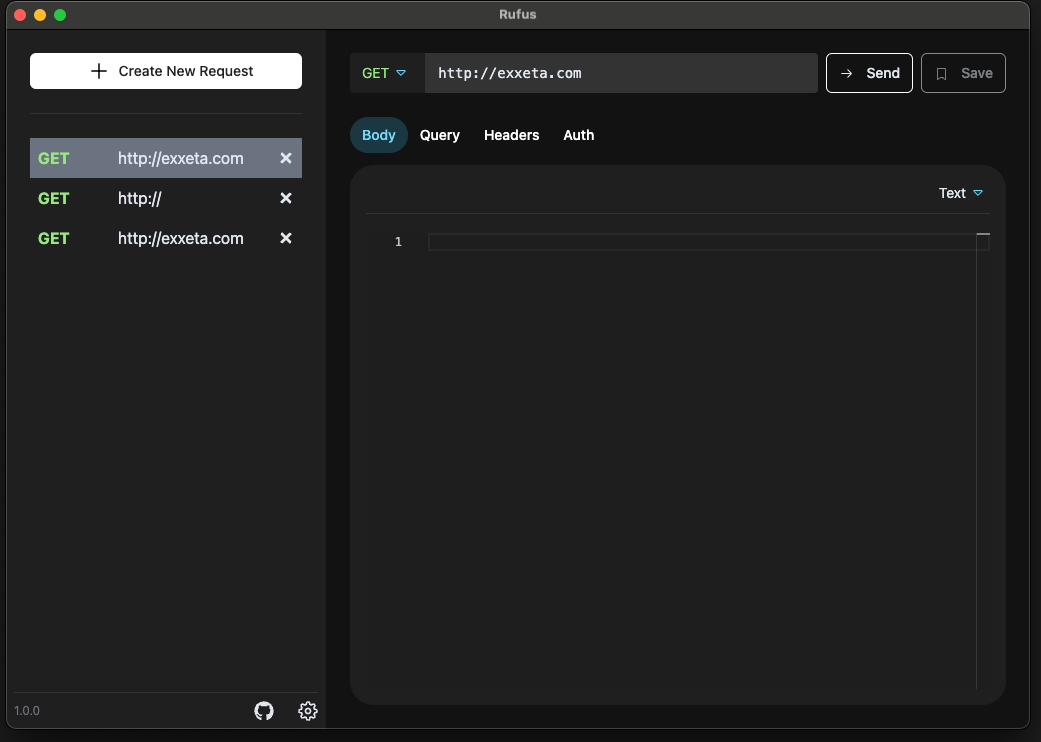
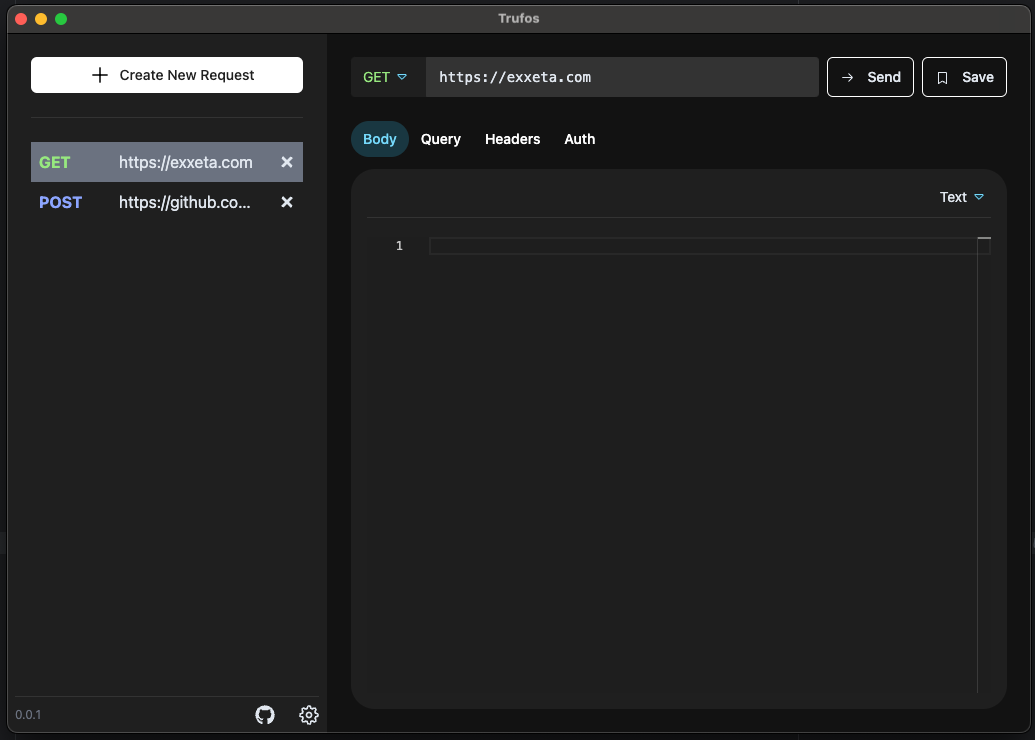
#112 - change ideas from PR

diff --git a/README.md b/README.md
@@ -19,11 +19,7 @@ As many REST clients exist in the ecosystem, Trufos aims to provide an out-of-th
 - Support for various authentication methods, including JWT, OAuth, and basic authentication
 - Extendable plugin architecture for additional features and integrations
 
-**Current Development Status**: Trufos is still at an early stage of development. Be aware of this when using Trufos under production conditions. If you would like to contribute to this project, please check out our (./CONTRIBUTING.md).
-
-## Download
-
-[Prebuild releases for Linux, OSX and Windows can be found here.](https://github.com/EXXETA/rufus/releases/latest)
+**Current Development Status**: Trufos is still at an early stage of development. Be aware of this when using Trufos under production conditions. If you would like to contribute to this project, please check out our [Contributing Guidelines](./CONTRIBUTING.md).
 
 ## Screenshot
 
@@ -31,10 +27,6 @@ As many REST clients exist in the ecosystem, Trufos aims to provide an out-of-th
 ## Requirements
 
 As Trufos is an Electron application, it can run on Windows, macOS, and Linux without any issues. If you want to develop or build this software yourself, you will need Node.js version 22 or higher and NPM version 10 or higher.
-
-## Installation
-
-You can either download one of the provided binaries or build the software yourself by cloning the repository and running `npm run make`, after which the binary can be found inside the `out/make/` directory.
 
 ## Usage
 
@@ -55,13 +47,14 @@ Here’s a simple example of how to add and utilize an endpoint:
 
 * Where can I find the saved Requests?
 * The saved requests are in this folder:
-  * Mac: ``~/Library/Application\ Support/Rufus/default-collection`` 
-  * Windows: ``C:\Users\USERNAME\AppData\Roaming\Rufus\default-collection``
+  * Mac: ``~/Library/Application\ Support/Trufos/default-collection`` 
+  * Windows: ``C:\Users\USERNAME\AppData\Roaming\Trufos\default-collection``
 
 
 ## Contributing
 
-If you would like to contribute to this project, please check out our [Contributing Guidelines](./CONTRIBUTING.md) and [Code of Conduct](./CODE_OF_CONDUCT.md) before you begin.
+If you would like to contribute to this project, please check out our
+[Contributing Guidelines](./CONTRIBUTING.md) and [Code of Conduct](./CODE_OF_CONDUCT.md) before you begin.
 
 We welcome feedback, suggestions, and pull requests!
 
